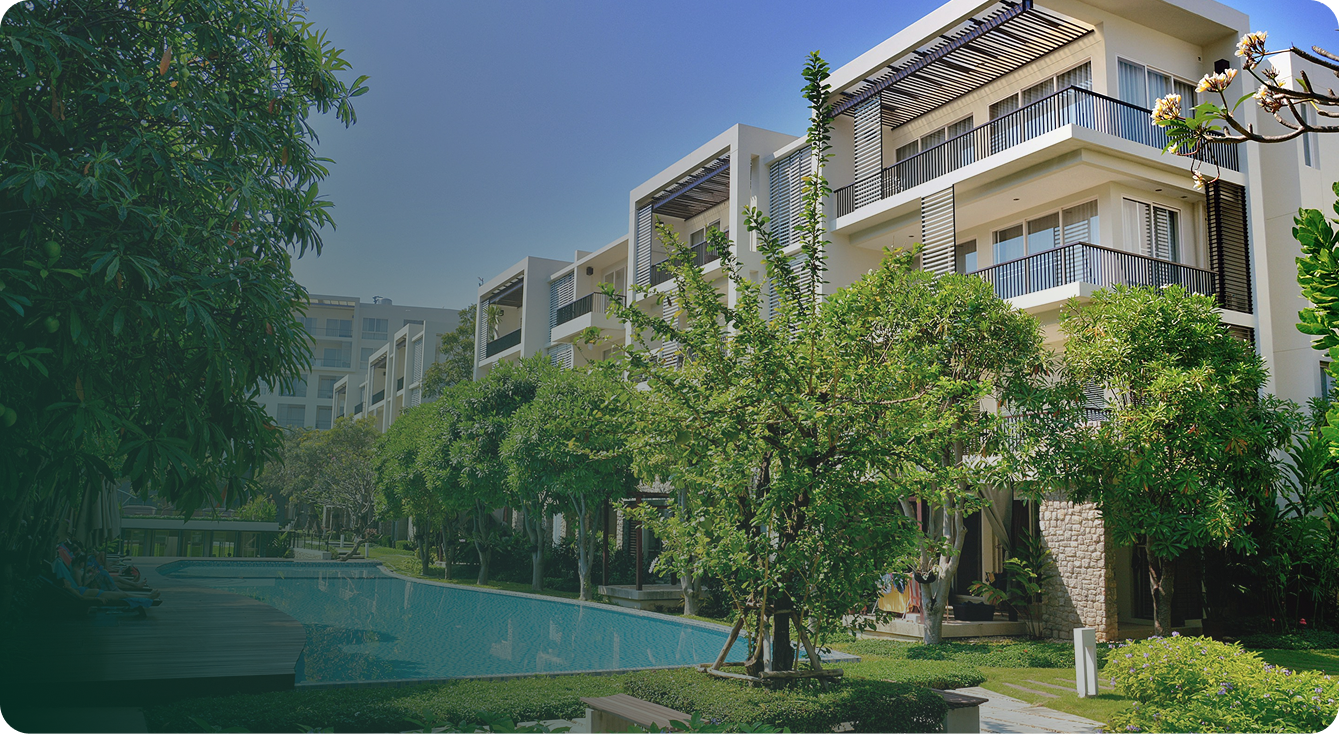
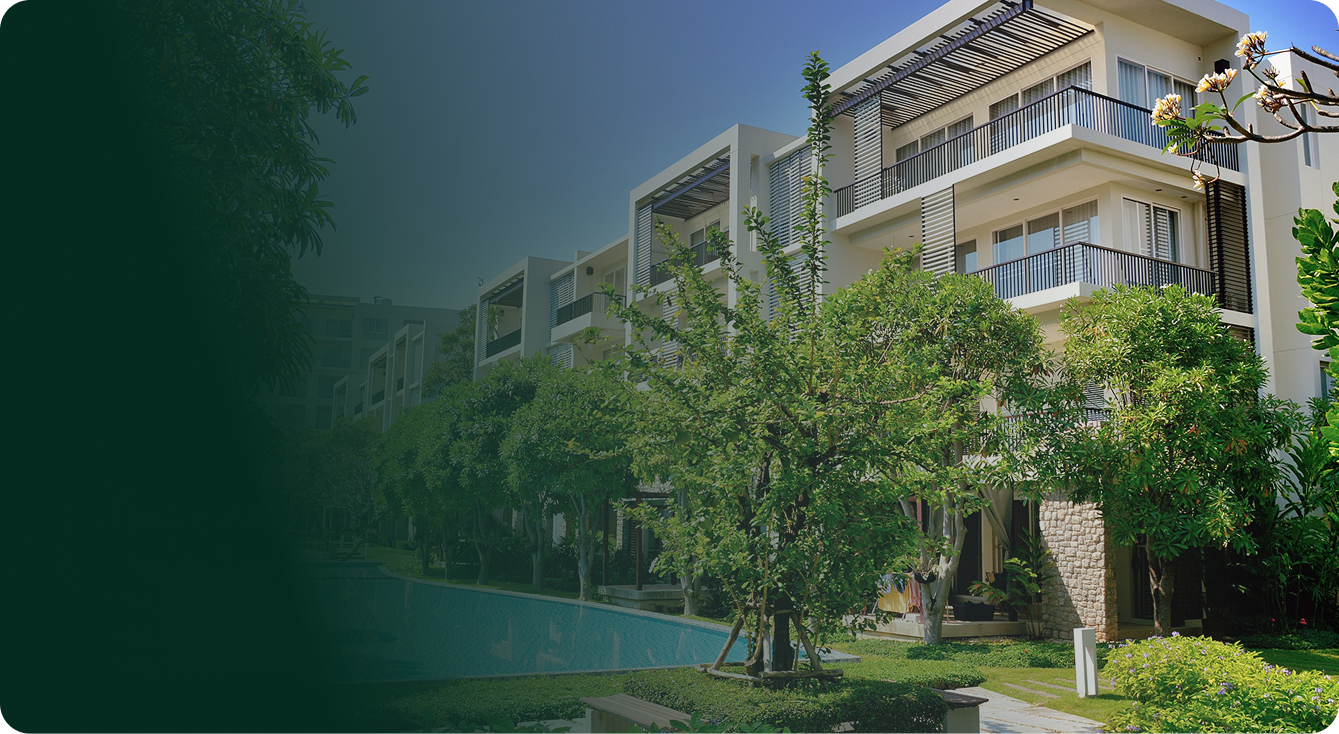
feat: conecta forms de login e cadastro e corrige caminhos de imagens

diff --git a/src/main/webapp/style.css b/src/main/webapp/style.css
@@ -146,7 +146,7 @@ h2, h3, h4 {
     min-height: 100vh;
     min-height: 100dvh;
     z-index: 1;
-    background: url('WEB-INF/assets/fundoHero.jpg') center/cover no-repeat;
+    background: url('assets/fundoHero.jpg') center/cover no-repeat;
     display: flex;
     align-items: center;
     justify-content: center;
@@ -267,7 +267,7 @@ h2, h3, h4 {
     margin-top: 120px;
     position: relative;
     border-radius: 24px;
-    background-image: url(WEB-INF/assets/prediosAvenida.png);
+    background-image: url(assets/prediosAvenida.png);
     background-size: cover;
     background-position: center;
     padding: 80px;
@@ -308,7 +308,7 @@ h2, h3, h4 {
     display: inline-block;
     width: 30px;
     height: 30px;
-    background-image: url('WEB-INF/assets/check.svg');
+    background-image: url('assets/check.svg');
     background-size: contain;
     background-repeat: no-repeat;
     background-position: center;
@@ -368,7 +368,7 @@ input[name="modo-card"] {
 }
 
 .card-cond-coop:has(#entrada-abas-cooperativa:checked) {
-    background-image: url('WEB-INF/assets/imagemCatadores.png');
+    background-image: url('assets/imagemCatadores.png');
     background-size: cover;
     background-position: center;
 }
@@ -464,7 +464,7 @@ input[name="modo-card"] {
 .beneficios {
     max-width: 1200px;
     margin: 80px auto;
-    background: url('WEB-INF/assets/imagemCasas\ \(1\).png') center/cover no-repeat;
+    background: url('assets/imagemCasas.png') center/cover no-repeat;
     border-radius: 30px;
     padding: 60px;
     color: #ffffff;
